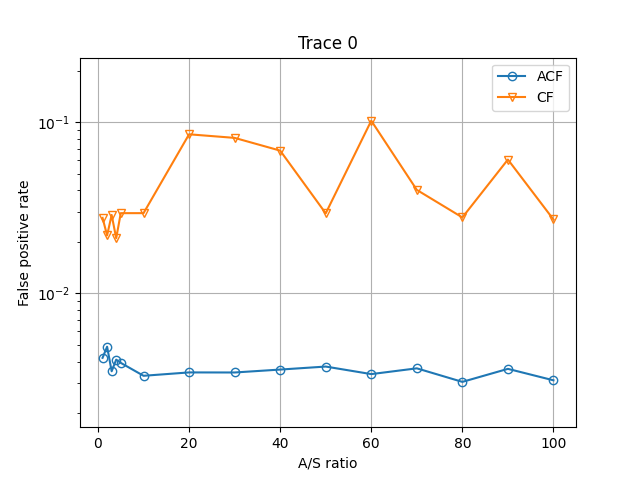
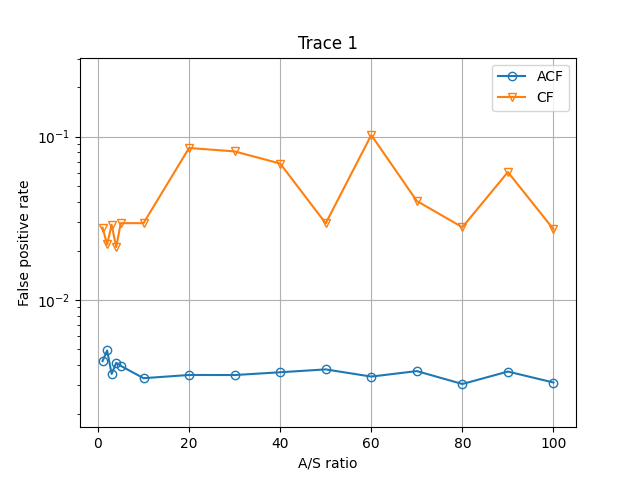
trace charts

diff --git a/make_graphs.py b/make_graphs.py
@@ -6,7 +6,6 @@ from util import *
 from supported_adaptations import ACF
 
 
-
 C_list = [True, False]
 label_list = ["ACF", "CF"]
 marker_style_list = ["o", "v"]
@@ -19,6 +18,13 @@ data = [
                                                                     0.002781694902157745, 0.0021903679263592757, 0.0020699310309287206, 0.002136973630702251, 0.0018880146617372895, 0.002118301353401992, 0.001740183677537065, 0.0019028405052843944, 0.0019106922643606413]],
         [[1, 2, 3, 4, 5, 10, 20, 30, 40, 50, 60, 70, 80, 90, 100], [0.0400511577813678, 0.033827577022107785, 0.03053817676253294, 0.03820829082815543, 0.025078142036781274, 0.019356145481245174,
                                                                     0.2276160488341994, 0.04132124472047393, 0.13336024529971055, 0.10207238599484894, 0.12403229374032294, 0.011839378837014043, 0.014849056314490287, 0.010622282338736178, 0.024930347274028288]]
+
+    ],
+    [
+        [[1, 2, 3, 4, 5, 10, 20, 30, 40, 50, 60, 70, 80, 90, 100], [0.004665131407136583, 0.006906145564097921, 0.004542169918447404, 0.004301132015726838, 0.0051715319479437, 0.004329857375669716,
+                                                                    0.003439742989217092, 0.0034357105674128058, 0.0038508120865811623, 0.004320847982734013, 0.003455383896125975, 0.0034104567932556136, 0.003512058999402033, 0.0033369977935271597, 0.0033085511846685884]],
+        [[1, 2, 3, 4, 5, 10, 20, 30, 40, 50, 60, 70, 80, 90, 100], [0.015348638446380665, 0.06955533970992542, 0.037354923387750885, 0.04555769585983059, 0.0422815359260452, 0.030287698518368607,
+                                                                    0.019786802174561042, 0.034252993232691306, 0.2904790002085117, 0.02841838688341978, 0.031829483392481456, 0.02670969942230189, 0.030344827586206897, 0.050624127741523015, 0.05879395249043322]]
 
     ]
 
@@ -38,7 +44,7 @@ for j, trace in enumerate(data):
         ax.plot(series[0], series[1], "-{}".format(marker_style_list[i % 2]),
                 fillstyle="none", label=label_list[i % 2])
 
-    ax.set_title("Trace {}".format(j))
+    ax.set_title("Trace {}".format(j + 1))
     ax.set_xlabel("A/S ratio")
     ax.set_ylabel("False positive rate")
     ax.set_yscale('log')

diff --git a/make_graphs_adaptations.py b/make_graphs_adaptations.py
@@ -1,0 +1,39 @@
+import matplotlib.pyplot as plt
+from tqdm import tqdm
+import json
+import statistics as st
+from util import *
+from supported_adaptations import ACF
+from matplotlib.ticker import FormatStrFormatter
+
+X = []
+Y = []
+Err = []
+
+for i in range(1, 9):
+    f = open('param_results/capacity{}.json'.format(i))
+
+    # returns JSON object as
+    # a dictionary
+    payload = json.load(f)
+    X.append(payload[0])
+    Y.append(payload[1])
+    Err.append(st.pstdev(payload[2]))
+    f.close()
+
+
+print(X, Y, Err)
+print(len(X), len(Y), len(Err))
+
+
+fig, ax = plt.subplots()
+ax.plot(X, Y)
+ax.errorbar(X, Y, yerr=Err, fmt='o')
+
+ax.set_title("# Supported Adaptations at each Occupancy")
+ax.set_xlabel("Occupancy %")
+ax.set_ylabel("# Supported Adaptations")
+ax.xaxis.set_major_formatter(FormatStrFormatter('%d %%'))
+ax.grid(True)
+ax.legend()
+fig.savefig("formatted/adaptations.png")

diff --git a/adaptations_at_capacity.py b/adaptations_at_capacity.py
@@ -267,7 +267,7 @@ filterSize = 13*512
 iterations = 10
 if __name__ == "__main__":
 
-    for s_count in range(1, 11):
+    for s_count in range(8, 9):
         occupancy = s_count*10
         adaptation_result = []
 
@@ -281,12 +281,17 @@ if __name__ == "__main__":
             n_insert = int((filterSize*occupancy/100))
             i_st = set()
 
+            reachedCapacity = True
             while len(i_st) < n_insert:
                 x = randomSrc()
                 i_st.add(x)
 
                 if not testCuckoo.insert(x):
-                    raise "Did not reach capacity"
+                    reachedCapacity = False
+                    print("Did not reach capacity")
+
+            if not reachedCapacity:
+                break
 
             FP = 0
             src_lst = list(i_st)
